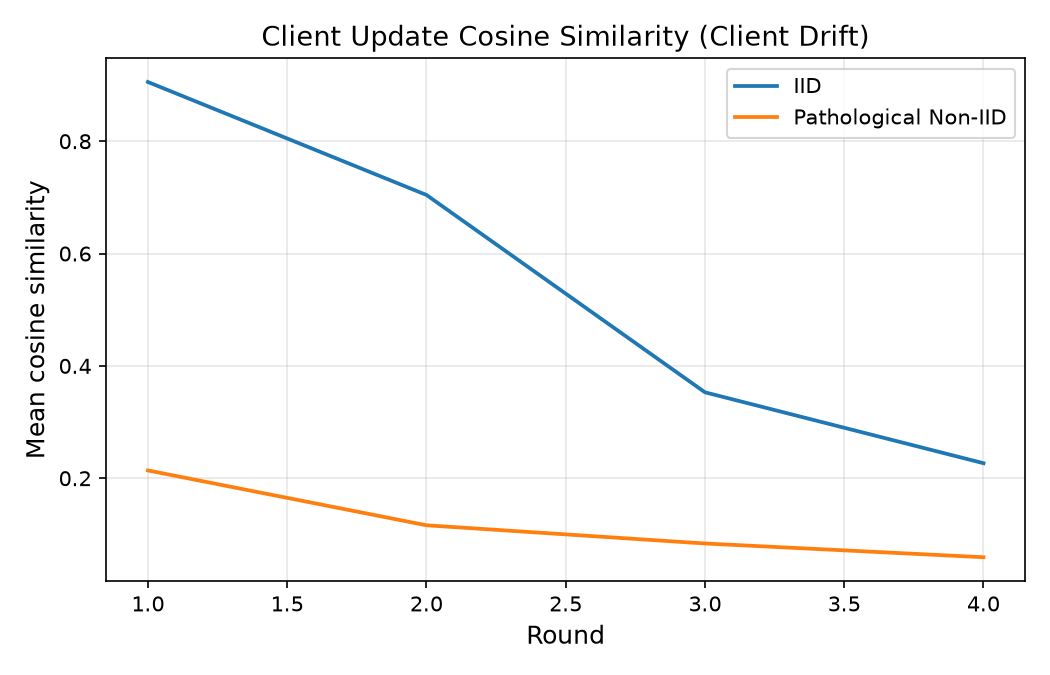
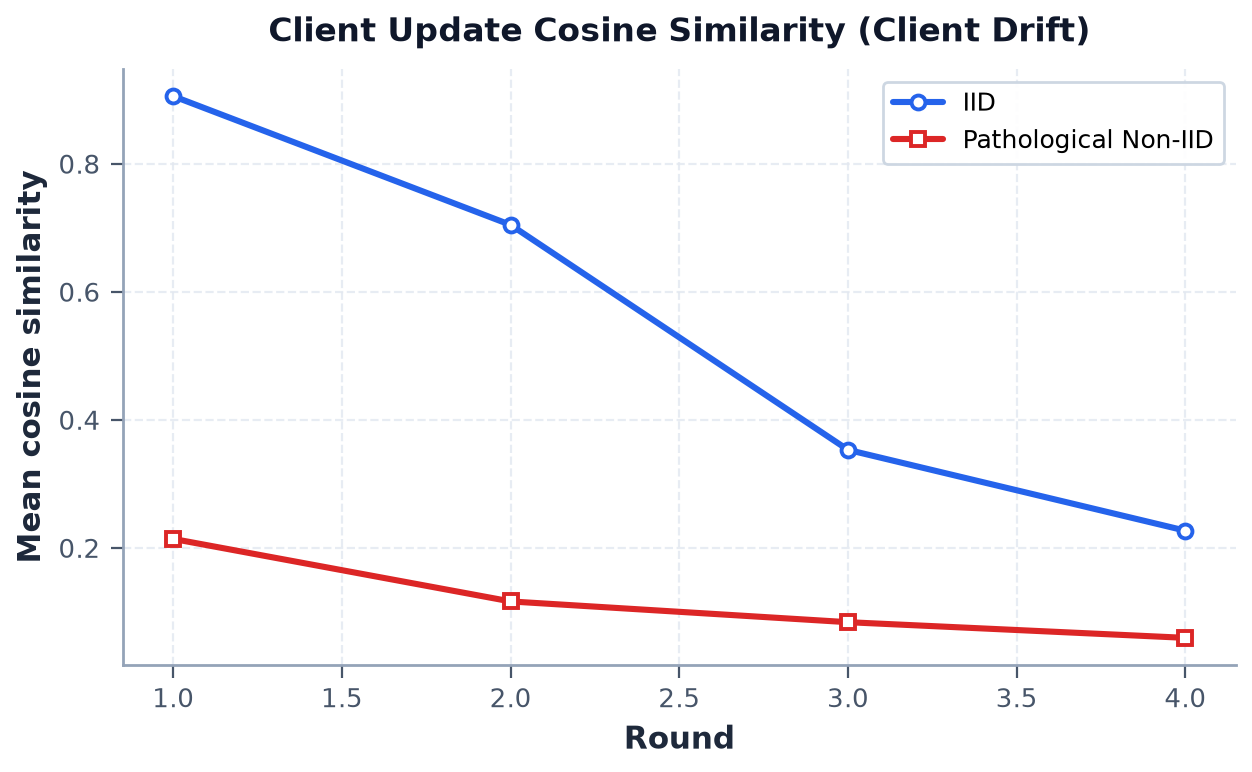
having better plots

diff --git a/src/plots.py b/src/plots.py
@@ -1,132 +1,316 @@
 import os
 import pandas as pd
+import numpy as np
 import matplotlib.pyplot as plt
 
 def set_style():
+    """Applies clean, research-grade aesthetics for publication-quality figures."""
+    plt.style.use('default')
     plt.rcParams.update({
-        'font.size': 11,
-        'axes.labelsize': 12,
-        'axes.titlesize': 13,
-        'xtick.labelsize': 10,
-        'ytick.labelsize': 10,
-        'legend.fontsize': 10,
-        'figure.titlesize': 14,
+        # Typography
+        'font.sans-serif': ['DejaVu Sans', 'Arial', 'Helvetica', 'sans-serif'],
+        'font.size': 10,
+        'axes.labelsize': 11,
+        'axes.labelweight': 'bold',
+        'axes.labelcolor': '#1e293b',
+        'axes.titlesize': 12,
+        'axes.titleweight': 'bold',
+        'axes.titlepad': 10,
+        'axes.titlecolor': '#0f172a',
+        'xtick.labelsize': 9.5,
+        'ytick.labelsize': 9.5,
+        'legend.fontsize': 9,
+        # Spines and framing
+        'axes.spines.top': False,
+        'axes.spines.right': False,
+        'axes.spines.left': True,
+        'axes.spines.bottom': True,
+        'axes.edgecolor': '#94a3b8',
+        'axes.linewidth': 1.0,
+        # Gridlines (subtle and behind data)
         'axes.grid': True,
-        'grid.alpha': 0.3,
-        'lines.linewidth': 1.8
+        'grid.color': '#e2e8f0',
+        'grid.linestyle': '--',
+        'grid.linewidth': 0.8,
+        'grid.alpha': 0.8,
+        'axes.axisbelow': True,
+        # Lines & Markers
+        'lines.linewidth': 2.2,
+        'lines.markersize': 5.5,
+        'lines.markeredgewidth': 1.2,
+        'lines.solid_capstyle': 'round',
+        'lines.solid_joinstyle': 'round',
+        # Ticks
+        'xtick.direction': 'out',
+        'ytick.direction': 'out',
+        'xtick.major.size': 4.5,
+        'ytick.major.size': 4.5,
+        'xtick.color': '#475569',
+        'ytick.color': '#475569',
+        # Legend styling
+        'legend.frameon': True,
+        'legend.framealpha': 0.95,
+        'legend.facecolor': '#ffffff',
+        'legend.edgecolor': '#cbd5e1',
+        'legend.fancybox': True,
+        # Output quality
+        'figure.dpi': 200,
+        'savefig.dpi': 200,
+        'savefig.bbox': 'tight',
+        'savefig.pad_inches': 0.08,
     })
 
 def plot_label_distribution(dist_matrix, title, out_path):
     set_style()
-    plt.figure(figsize=(8, 5))
-    plt.imshow(dist_matrix, aspect='auto', cmap='Blues', interpolation='nearest')
-    plt.colorbar(label='Samples per class')
-    plt.xlabel('Class label')
-    plt.ylabel('Client index')
-    plt.title(title)
+    fig, ax = plt.subplots(figsize=(6.8, 4.2))
+    im = ax.imshow(dist_matrix, aspect='auto', cmap='Blues', interpolation='nearest')
+    
+    cbar = fig.colorbar(im, ax=ax, fraction=0.046, pad=0.03)
+    cbar.set_label('Samples per class', fontsize=10, labelpad=8, weight='bold', color='#1e293b')
+    cbar.ax.tick_params(labelsize=9)
+    cbar.outline.set_linewidth(0.8)
+    cbar.outline.set_edgecolor('#cbd5e1')
+    
+    ax.set_xlabel('Class Label (0 to 9)')
+    ax.set_ylabel('Client Index (0 to 99)')
+    ax.set_title(title)
+    ax.set_xticks(range(10))
+    ax.set_xticklabels(range(10))
+    
+    # Keep border for image visualization
+    for spine in ax.spines.values():
+        spine.set_visible(True)
+        spine.set_color('#cbd5e1')
+        spine.set_linewidth(0.8)
+    
     plt.tight_layout()
-    plt.savefig(out_path, dpi=150)
+    plt.savefig(out_path)
     plt.close()
 
 def plot_centralized_curves(csv_path, out_path):
     set_style()
     df = pd.read_csv(csv_path)
-    plt.figure(figsize=(7, 4.5))
+    fig, ax = plt.subplots(figsize=(6.0, 3.8))
+    
+    palette = {'2NN': '#2563eb', 'CNN': '#059669'}
+    markers = {'2NN': 'o', 'CNN': 's'}
+    
     for model_name, group in df.groupby('model'):
-        plt.plot(group['epoch'], group['test_acc'] * 100, label=model_name, marker='o', markersize=3)
-    plt.xlabel('Epoch')
-    plt.ylabel('Test accuracy (%)')
-    plt.title('Centralized Baseline Training on MNIST')
-    plt.legend()
+        color = palette.get(model_name, '#2563eb')
+        marker = markers.get(model_name, 'o')
+        peak_acc = group['test_acc'].max() * 100
+        label = f"{model_name} (Peak: {peak_acc:.1f}%)"
+        ax.plot(group['epoch'], group['test_acc'] * 100, label=label,
+                color=color, marker=marker, markersize=5.5, markerfacecolor='white',
+                markeredgecolor=color, markeredgewidth=1.4, lw=2.2)
+        
+    ax.set_xlabel('Epoch')
+    ax.set_ylabel('Test Accuracy (%)')
+    ax.set_title('Centralized Baseline Ceiling on MNIST')
+    ax.set_ylim(85, 100)
+    ax.legend(loc='lower right', title='Model Architecture')
     plt.tight_layout()
-    plt.savefig(out_path, dpi=150)
+    plt.savefig(out_path)
     plt.close()
 
 def plot_fedsgd_participation(csv_path, out_path):
     set_style()
     df = pd.read_csv(csv_path)
-    plt.figure(figsize=(7, 4.5))
-    for c_val, group in df.groupby('C'):
+    fig, ax = plt.subplots(figsize=(6.4, 4.0))
+    
+    c_colors = {
+        0.0: '#94a3b8',
+        0.1: '#38bdf8',
+        0.2: '#0284c7',
+        0.5: '#2563eb',
+        1.0: '#1e1b4b',
+    }
+    c_styles = {
+        0.0: ':',
+        0.1: '--',
+        0.2: '-.',
+        0.5: '-',
+        1.0: '-',
+    }
+    
+    for c_val in sorted(df['C'].unique()):
+        group = df[df['C'] == c_val]
         grouped = group.groupby('round')['test_acc'].agg(['mean', 'std']).reset_index()
-        plt.plot(grouped['round'], grouped['mean'] * 100, label=f'C = {c_val}')
-        if grouped['std'].notna().any():
-            plt.fill_between(grouped['round'], (grouped['mean'] - grouped['std']) * 100,
-                             (grouped['mean'] + grouped['std']) * 100, alpha=0.15)
-    plt.xlabel('Communication round')
-    plt.ylabel('Test accuracy (%)')
-    plt.title('FedSGD Client Participation (C fraction)')
-    plt.legend()
+        color = c_colors.get(c_val, '#2563eb')
+        style = c_styles.get(c_val, '-')
+        label = f'$C = {c_val}$ (1 client/round)' if c_val == 0.0 else f'$C = {c_val}$ ({int(c_val*100)} clients/round)'
+        ax.plot(grouped['round'], grouped['mean'] * 100, label=label,
+                color=color, linestyle=style, lw=2.2,
+                marker='o' if c_val in [0.0, 1.0] else None, markersize=4.5,
+                markerfacecolor='white', markeredgecolor=color, markeredgewidth=1.3)
+        if grouped['std'].notna().any() and (grouped['std'] > 0).any():
+            ax.fill_between(grouped['round'], (grouped['mean'] - grouped['std']) * 100,
+                            (grouped['mean'] + grouped['std']) * 100, color=color, alpha=0.15)
+            
+    ax.set_xlabel('Communication Round')
+    ax.set_ylabel('Test Accuracy (%)')
+    ax.set_title('FedSGD Client Participation ($C$ Fraction)')
+    ax.set_ylim(0, 75)
+    ax.legend(loc='upper left', title='Participation Rate')
     plt.tight_layout()
-    plt.savefig(out_path, dpi=150)
+    plt.savefig(out_path)
     plt.close()
 
 def plot_fedavg_computation(csv_path, out_path):
     set_style()
     df = pd.read_csv(csv_path)
-    plt.figure(figsize=(7, 4.5))
-    for (e_val, b_val), group in df.groupby(['E', 'B']):
+    fig, ax = plt.subplots(figsize=(6.4, 4.0))
+    
+    configs = [
+        ((1, 600), '$E=1, B=\\mathrm{all}$ (1 step/round)', '#64748b', ':', '^'),
+        ((1, 50), '$E=1, B=50$ (12 steps/round)', '#0284c7', '--', 's'),
+        ((5, 10), '$E=5, B=10$ (300 steps/round)', '#16a34a', '-', 'o'),
+    ]
+    
+    for (e_val, b_val), label, color, style, marker in configs:
+        group = df[(df['E'] == e_val) & (df['B'] == b_val)]
+        if group.empty:
+            continue
         grouped = group.groupby('round')['test_acc'].agg(['mean', 'std']).reset_index()
-        b_label = 'all' if b_val == 0 or b_val == 600 else f'{b_val}'
-        plt.plot(grouped['round'], grouped['mean'] * 100, label=f'E={e_val}, B={b_label}')
-        if grouped['std'].notna().any():
-            plt.fill_between(grouped['round'], (grouped['mean'] - grouped['std']) * 100,
-                             (grouped['mean'] + grouped['std']) * 100, alpha=0.15)
-    plt.xlabel('Communication round')
-    plt.ylabel('Test accuracy (%)')
-    plt.title('FedAvg Effect of Local Computation (E epochs, B batch size)')
-    plt.legend()
+        ax.plot(grouped['round'], grouped['mean'] * 100, label=label,
+                color=color, linestyle=style, marker=marker, markersize=5.5,
+                markerfacecolor='white', markeredgecolor=color, markeredgewidth=1.5, lw=2.2)
+        if grouped['std'].notna().any() and (grouped['std'] > 0).any():
+            ax.fill_between(grouped['round'], (grouped['mean'] - grouped['std']) * 100,
+                            (grouped['mean'] + grouped['std']) * 100, color=color, alpha=0.15)
+            
+    ax.set_xlabel('Communication Round')
+    ax.set_ylabel('Test Accuracy (%)')
+    ax.set_title('FedAvg: Speedup from Local Computation ($E$ Epochs, $B$ Batch Size)')
+    ax.set_ylim(40, 100)
+    ax.legend(loc='lower right', title='Local Compute Budget')
     plt.tight_layout()
-    plt.savefig(out_path, dpi=150)
+    plt.savefig(out_path)
     plt.close()
 
 def plot_noniid_comparison(csv_path, out_path):
     set_style()
     df = pd.read_csv(csv_path)
-    plt.figure(figsize=(7, 4.5))
-    for part, group in df.groupby('partition'):
+    fig, ax = plt.subplots(figsize=(6.6, 4.2))
+    
+    # Exact colors aligning with documentation
+    part_order = [
+        ('IID', 'IID (Uniform across 100 clients)', '#16a34a', '-', 'o'),
+        ('Dirichlet 0.5', 'Dirichlet $\\alpha = 0.5$ (Mild label skew)', '#d97706', '-', 's'),
+        ('Dirichlet 0.1', 'Dirichlet $\\alpha = 0.1$ (Severe label skew)', '#2563eb', '-', '^'),
+        ('Pathological', 'Pathological 2-shard (Disjoint classes)', '#dc2626', '-', 'D'),
+    ]
+    
+    for key, label, color, style, marker in part_order:
+        group = df[df['partition'] == key]
+        if group.empty:
+            continue
         grouped = group.groupby('round')['test_acc'].agg(['mean', 'std']).reset_index()
-        plt.plot(grouped['round'], grouped['mean'] * 100, label=f'{part}')
-        if grouped['std'].notna().any():
-            plt.fill_between(grouped['round'], (grouped['mean'] - grouped['std']) * 100,
-                             (grouped['mean'] + grouped['std']) * 100, alpha=0.15)
-    plt.xlabel('Communication round')
-    plt.ylabel('Test accuracy (%)')
-    plt.title('FedAvg on IID vs Non-IID Dirichlet and Shards')
-    plt.legend()
+        ax.plot(grouped['round'], grouped['mean'] * 100, label=label,
+                color=color, linestyle=style, marker=marker, markersize=5.5,
+                markerfacecolor='white', markeredgecolor=color, markeredgewidth=1.5, lw=2.2)
+        if grouped['std'].notna().any() and (grouped['std'] > 0).any():
+            ax.fill_between(grouped['round'], (grouped['mean'] - grouped['std']) * 100,
+                            (grouped['mean'] + grouped['std']) * 100, color=color, alpha=0.15)
+            
+    ax.set_xlabel('Communication Round')
+    ax.set_ylabel('Test Accuracy (%)')
+    ax.set_title('FedAvg Convergence: The Non-IID Penalty')
+    ax.set_ylim(10, 100)
+    ax.legend(loc='lower right', title='Data Distribution')
     plt.tight_layout()
-    plt.savefig(out_path, dpi=150)
+    plt.savefig(out_path)
     plt.close()
 
 def plot_interpolation(csv_path, out_path):
     set_style()
     df = pd.read_csv(csv_path)
-    plt.figure(figsize=(7, 4.5))
-    for mode, group in df.groupby('mode'):
-        plt.plot(group['theta'], group['loss'], label=mode)
-    plt.xlabel(r'$\theta$')
-    plt.ylabel('Training loss')
-    plt.title('Model Weight Interpolation: ' + r'$\theta w_A + (1-\theta) w_B$')
-    plt.legend()
+    fig, ax = plt.subplots(figsize=(6.4, 4.0))
+    
+    modes = [
+        ('Shared', 'Shared Initialization ($w_0$ shared)', '#d97706', '-'),
+        ('Independent', 'Independent Initialization ($w_0$ random)', '#2563eb', '--'),
+    ]
+    
+    for prefix, label, color, style in modes:
+        group = df[df['mode'].str.lower().str.startswith(prefix.lower())]
+        if not group.empty:
+            ax.plot(group['theta'], group['loss'], label=label, color=color, linestyle=style, lw=2.4)
+        
+    ax.axvline(0.0, color='#94a3b8', linestyle=':', lw=1.1, alpha=0.9)
+    ax.axvline(1.0, color='#94a3b8', linestyle=':', lw=1.1, alpha=0.9)
+    ax.axvline(0.5, color='#cbd5e1', linestyle='--', lw=1.1, alpha=0.9)
+    
+    y_max = ax.get_ylim()[1]
+    y_min = ax.get_ylim()[0]
+    ax.text(0.0, y_max * 0.93, r' $w_B$', color='#475569', fontsize=10, ha='left', weight='bold')
+    ax.text(1.0, y_max * 0.93, r'$w_A$ ', color='#475569', fontsize=10, ha='right', weight='bold')
+    ax.text(0.5, y_min + (y_max - y_min) * 0.05, r'Midpoint $\theta=0.5$', color='#64748b', fontsize=8.5, ha='center')
+    
+    ax.set_xlabel(r'Interpolation Weight $\theta$ ($w(\theta) = \theta w_A + (1-\theta)w_B$)')
+    ax.set_ylabel('Evaluation Loss on Full Dataset')
+    ax.set_title('Weight Space Geometry: Loss Basin Connectivity')
+    ax.legend(loc='upper right')
     plt.tight_layout()
-    plt.savefig(out_path, dpi=150)
+    plt.savefig(out_path)
     plt.close()
 
 def plot_survey_curves(csv_path, out_path, x_col='round', y_col='test_acc', group_col='setting',
                        title='Survey Demo', x_label='Round', y_label='Test accuracy (%)'):
     set_style()
     df = pd.read_csv(csv_path)
-    plt.figure(figsize=(7, 4.5))
-    for val, group in df.groupby(group_col):
+    fig, ax = plt.subplots(figsize=(6.4, 4.0))
+    
+    # Custom color and marker map for known survey experiment settings
+    style_map = {
+        # Settings
+        'Cross-silo (K=10, C=1.0)': ('#059669', '-', 'o'),
+        'Cross-device (K=100, C=0.1)': ('#2563eb', '--', 's'),
+        # Non-IID Types
+        'Label skew': ('#2563eb', '-', 'o'),
+        'Quantity skew': ('#059669', '-', 's'),
+        'Feature skew': ('#dc2626', '-', '^'),
+        # Dropout
+        'p = 0.0': ('#059669', '-', 'o'),
+        'p = 0.2': ('#2563eb', '--', 's'),
+        'p = 0.5': ('#d97706', ':', '^'),
+        # Client Drift
+        'IID': ('#2563eb', '-', 'o'),
+        'Pathological Non-IID': ('#dc2626', '-', 's'),
+    }
+    
+    fallback_colors = ['#2563eb', '#dc2626', '#059669', '#d97706', '#7c3aed', '#0d9488']
+    fallback_markers = ['o', 's', '^', 'D', 'v', 'p']
+    
+    y_mult = 100 if (y_col == 'test_acc' and df[y_col].max() <= 1.0) else 1
+    
+    for idx, (val, group) in enumerate(df.groupby(group_col)):
         grouped = group.groupby(x_col)[y_col].agg(['mean', 'std']).reset_index()
-        y_mult = 100 if y_col == 'test_acc' else 1
-        plt.plot(grouped[x_col], grouped['mean'] * y_mult, label=str(val))
-        if grouped['std'].notna().any():
-            plt.fill_between(grouped[x_col], (grouped['mean'] - grouped['std']) * y_mult,
-                             (grouped['mean'] + grouped['std']) * y_mult, alpha=0.15)
-    plt.xlabel(x_label)
-    plt.ylabel(y_label)
-    plt.title(title)
-    plt.legend()
+        val_str = str(val)
+        
+        if val_str in style_map:
+            color, linestyle, marker = style_map[val_str]
+        else:
+            color = fallback_colors[idx % len(fallback_colors)]
+            linestyle = '-'
+            marker = fallback_markers[idx % len(fallback_markers)]
+            
+        ax.plot(grouped[x_col], grouped['mean'] * y_mult, label=val_str,
+                color=color, linestyle=linestyle, marker=marker, markersize=5.0,
+                markerfacecolor='white', markeredgecolor=color, markeredgewidth=1.4, lw=2.2)
+                
+        if grouped['std'].notna().any() and (grouped['std'] > 0).any():
+            ax.fill_between(grouped[x_col], (grouped['mean'] - grouped['std']) * y_mult,
+                            (grouped['mean'] + grouped['std']) * y_mult, color=color, alpha=0.15)
+            
+    ax.set_xlabel(x_label)
+    ax.set_ylabel(y_label)
+    ax.set_title(title)
+    
+    # Legend placement
+    loc = 'upper right' if 'Drift' in title else ('lower right' if 'accuracy' in y_label.lower() else 'best')
+    ax.legend(loc=loc)
+    
     plt.tight_layout()
-    plt.savefig(out_path, dpi=150)
+    plt.savefig(out_path)
     plt.close()
